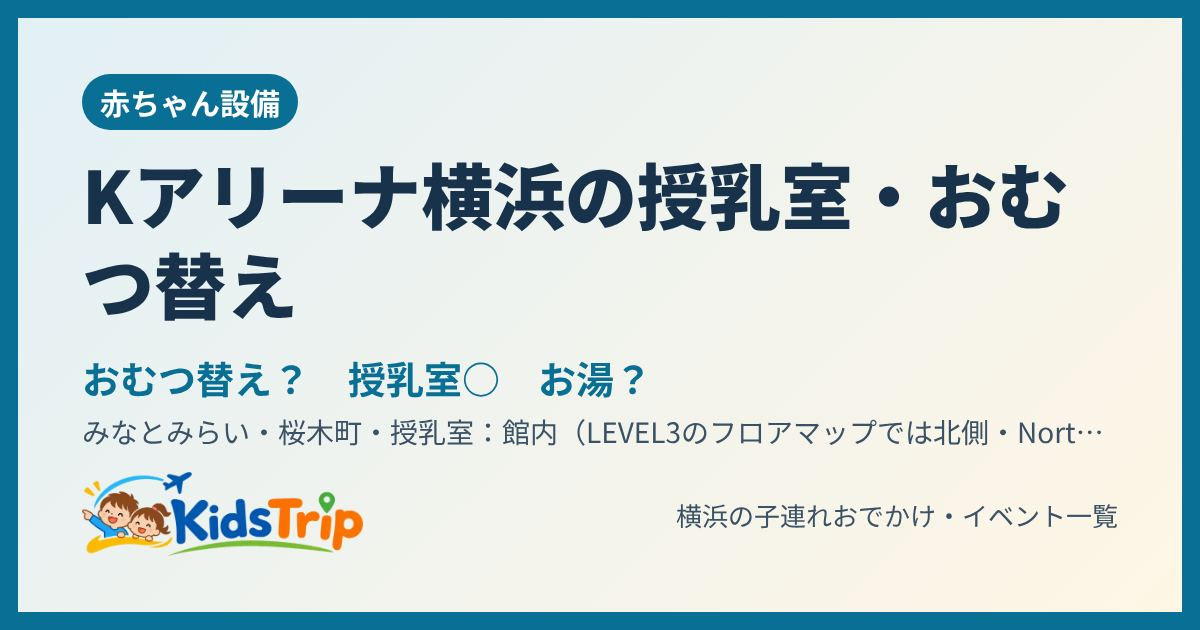
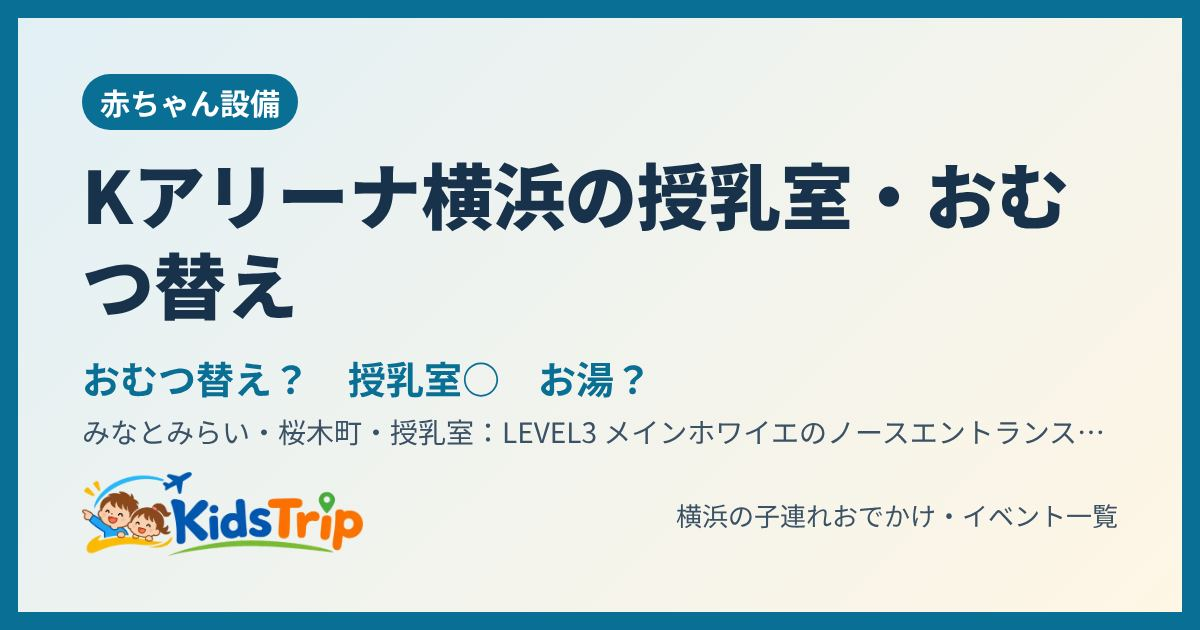
Kアリーナ横浜：授乳室の場所（LEVEL3メインホワイエ・ノースエントランス側）とトイレの階を追加（横浜みなとみらい21の記事）
Claude-Session: https://claude.ai/code/session_014AtJ2g3ghW1boxsW7syVwL

Changed region(s): [[0.4008, 0.6635, 0.8942, 0.7238]]

diff --git a/spot/18kwe75/index.html b/spot/18kwe75/index.html
@@ -3,13 +3,13 @@
 <head>
 <meta charset="utf-8">
 <meta name="viewport" content="width=device-width, initial-scale=1">
-<title>Kアリーナ横浜の授乳室・おむつ替え・お湯｜KidsTrip</title>
-<meta name="description" content="Kアリーナ横浜（みなとみらい・桜木町）の授乳室・おむつ替えの場所：授乳室：館内（LEVEL3のフロアマップでは北側・North Entrance寄りに授乳室のマーク）／車椅子優先トイレ：館内・館外（LEVEL3は301・304の近くなど）。授乳室あり。">
+<title>Kアリーナ横浜の授乳室は何階？おむつ替え・お湯｜KidsTrip</title>
+<meta name="description" content="Kアリーナ横浜（みなとみらい・桜木町）の授乳室・おむつ替えの場所：授乳室：LEVEL3 メインホワイエのノースエントランス側／車椅子用のトイレ：1F・3F（屋内）・5Fに各2か所（ほかに館外にも）。授乳室あり。">
 <link rel="canonical" href="https://kidstrip.jp/spot/18kwe75/">
 <meta property="og:type" content="article">
 <meta property="og:site_name" content="KidsTrip">
-<meta property="og:title" content="Kアリーナ横浜の授乳室・おむつ替え・お湯｜KidsTrip">
-<meta property="og:description" content="Kアリーナ横浜（みなとみらい・桜木町）の授乳室・おむつ替えの場所：授乳室：館内（LEVEL3のフロアマップでは北側・North Entrance寄りに授乳室のマーク）／車椅子優先トイレ：館内・館外（LEVEL3は301・304の近くなど）。授乳室あり。">
+<meta property="og:title" content="Kアリーナ横浜の授乳室は何階？おむつ替え・お湯｜KidsTrip">
+<meta property="og:description" content="Kアリーナ横浜（みなとみらい・桜木町）の授乳室・おむつ替えの場所：授乳室：LEVEL3 メインホワイエのノースエントランス側／車椅子用のトイレ：1F・3F（屋内）・5Fに各2か所（ほかに館外にも）。授乳室あり。">
 <meta property="og:url" content="https://kidstrip.jp/spot/18kwe75/">
 <meta property="og:image" content="https://kidstrip.jp/og/spot-18kwe75.jpg">
 <meta property="og:image:width" content="1200">
@@ -21,7 +21,7 @@
 <link rel="icon" href="../../img/favicon.png">
 <link rel="apple-touch-icon" href="../../img/apple-touch-icon.png">
 <script type="application/ld+json">{"@context": "https://schema.org", "@type": "BreadcrumbList", "itemListElement": [{"@type": "ListItem", "position": 1, "name": "トップ", "item": "https://kidstrip.jp/"}, {"@type": "ListItem", "position": 2, "name": "ごはん・おむつ", "item": "https://kidstrip.jp/#foodall"}, {"@type": "ListItem", "position": 3, "name": "Kアリーナ横浜"}]}</script>
-<script type="application/ld+json">{"@context": "https://schema.org", "@type": "Place", "name": "Kアリーナ横浜", "description": "Kアリーナ横浜（みなとみらい・桜木町）の授乳室・おむつ替えの場所：授乳室：館内（LEVEL3のフロアマップでは北側・North Entrance寄りに授乳室のマーク）／車椅子優先トイレ：館内・館外（LEVEL3は301・304の近くなど）。授乳室あり。", "url": "https://kidstrip.jp/spot/18kwe75/", "image": ["https://kidstrip.jp/og/spot-18kwe75.jpg"], "address": {"@type": "PostalAddress", "addressLocality": "横浜市", "addressRegion": "神奈川県", "addressCountry": "JP"}, "amenityFeature": [{"@type": "LocationFeatureSpecification", "name": "授乳室", "value": true}], "publicAccess": true, "sameAs": "https://k-arena.com/faq/", "hasMap": "https://www.google.com/maps/search/?api=1&query=Kアリーナ横浜"}</script>
+<script type="application/ld+json">{"@context": "https://schema.org", "@type": "Place", "name": "Kアリーナ横浜", "description": "Kアリーナ横浜（みなとみらい・桜木町）の授乳室・おむつ替えの場所：授乳室：LEVEL3 メインホワイエのノースエントランス側／車椅子用のトイレ：1F・3F（屋内）・5Fに各2か所（ほかに館外にも）。授乳室あり。", "url": "https://kidstrip.jp/spot/18kwe75/", "image": ["https://kidstrip.jp/og/spot-18kwe75.jpg"], "address": {"@type": "PostalAddress", "addressLocality": "横浜市", "addressRegion": "神奈川県", "addressCountry": "JP"}, "amenityFeature": [{"@type": "LocationFeatureSpecification", "name": "授乳室", "value": true}], "publicAccess": true, "sameAs": "https://k-arena.com/faq/", "hasMap": "https://www.google.com/maps/search/?api=1&query=Kアリーナ横浜"}</script>
 <style>
 .gkcmp th[scope=row]{white-space:nowrap}.gkcmp td{font-size:.92em}
 .gk{list-style:none;padding:0}.gk li{border:1px solid #e5e5e5;border-radius:10px;padding:10px 12px;margin:8px 0;line-height:1.7}.gk h3{margin:0 0 2px;font-size:1.02em}
@@ -52,10 +52,10 @@ footer{margin:28px 0 8px;font-size:12px;color:var(--muted)}
 <h1>Kアリーナ横浜（公演の来場者向け）の授乳室・おむつ替え・お湯</h1>
 <table class="bm"><thead><tr><th>場所</th><th>おむつ替え</th><th>授乳室</th><th>お湯</th><th>レンジ</th></tr></thead><tbody><tr><th>Kアリーナ横浜</th><td class="u">？</td><td class="y">○</td><td class="u">？</td><td class="u">？</td></tr></tbody></table>
 <p class="legend">○ あり　× なし　？ 調べた範囲で確認できず</p>
-<table class="info"><tr><th>場所</th><td>授乳室：館内（LEVEL3のフロアマップでは北側・North Entrance寄りに授乳室のマーク）／車椅子優先トイレ：館内・館外（LEVEL3は301・304の近くなど）</td></tr><tr><th>エリア</th><td>みなとみらい・桜木町</td></tr></table>
+<table class="info"><tr><th>場所</th><td>授乳室：LEVEL3 メインホワイエのノースエントランス側／車椅子用のトイレ：1F・3F（屋内）・5Fに各2か所（ほかに館外にも）</td></tr><tr><th>エリア</th><td>みなとみらい・桜木町</td></tr></table>
 <ul class="chips"><li>車椅子優先トイレ（館内・館外）</li><li>全フロアに行けるエレベーター（体の不自由な方向け・案内制）</li></ul>
-<p class="sum">コンサート会場なので、使えるのは公演に来た人。公式のよくある質問では、授乳室は館内、車椅子優先トイレは館内・館外にあり、場所はフロアマップで確かめるよう案内している。フロアマップのLEVEL3では、北側（North Entrance寄り）に授乳室のマークがある。公演ごとにトイレの男女の割り当てが変わることがある。おむつ交換台・お湯・電子レンジは公式ページに記載なし。託児施設は公式のよくある質問を確認。</p>
-<p class="small">出典：Kアリーナ横浜 公式（よくある質問・フロアマップ。利用者が送った公式の画面、2026年11月）</p>
+<p class="sum">コンサート会場なので、使えるのは公演に来た人。公式のよくある質問では、授乳室は館内、車椅子優先トイレは館内・館外にあり、場所はフロアマップで確かめるよう案内している。授乳室はLEVEL3のメインホワイエ（メインエントランスを入った広いロビー）のノースエントランス側（フロアマップと、横浜みなとみらい21のインタビュー記事）。トイレは1F・3F（屋内・屋外）・4F・7F、車椅子用のトイレは1F・3F（屋内）・5Fに各2か所。公演ごとにトイレの男女の割り当てが変わることがある。おむつ交換台・お湯・電子レンジは公式ページに記載なし。託児施設は公式のよくある質問を確認。</p>
+<p class="small">出典：Kアリーナ横浜 公式（よくある質問・フロアマップ。利用者が送った公式の画面、2026年11月）・横浜みなとみらい21「Music Port YOKOHAMA」Kアリーナ横浜インタビュー（https://musicport-yokohama.jp/interview/k_arena_yokohama ・2026年11月22日確認）</p>
 <div class="btns"><a class="btn main" data-act="official" href="https://k-arena.com/faq/" target="_blank" rel="noopener">公式ページで確認</a>
 <a class="btn" href="https://www.google.com/maps/search/?api=1&amp;query=Kアリーナ横浜" target="_blank" rel="noopener">地図で見る</a>
 <button type="button" class="btn" data-share="1">🔗 リンクを送る・コピー</button></div>

diff --git a/js/data.js b/js/data.js
@@ -449,8 +449,8 @@ const CLOTHES = [
 ];
 const BABY = {
   "mm": [
-    { n:"Kアリーナ横浜（公演の来場者向け）", where:"授乳室：館内（LEVEL3のフロアマップでは北側・North Entrance寄りに授乳室のマーク）／車椅子優先トイレ：館内・館外（LEVEL3は301・304の近くなど）", d:null, f:true, w:null, ex:["車椅子優先トイレ（館内・館外）","全フロアに行けるエレベーター（体の不自由な方向け・案内制）"],
-      note:"コンサート会場なので、使えるのは公演に来た人。公式のよくある質問では、授乳室は館内、車椅子優先トイレは館内・館外にあり、場所はフロアマップで確かめるよう案内している。フロアマップのLEVEL3では、北側（North Entrance寄り）に授乳室のマークがある。公演ごとにトイレの男女の割り当てが変わることがある。おむつ交換台・お湯・電子レンジは公式ページに記載なし。託児施設は公式のよくある質問を確認。", url:"https://k-arena.com/faq/", src:"Kアリーナ横浜 公式（よくある質問・フロアマップ。利用者が送った公式の画面、2026年11月）" },
+    { n:"Kアリーナ横浜（公演の来場者向け）", where:"授乳室：LEVEL3 メインホワイエのノースエントランス側／車椅子用のトイレ：1F・3F（屋内）・5Fに各2か所（ほかに館外にも）", d:null, f:true, w:null, ex:["車椅子優先トイレ（館内・館外）","全フロアに行けるエレベーター（体の不自由な方向け・案内制）"],
+      note:"コンサート会場なので、使えるのは公演に来た人。公式のよくある質問では、授乳室は館内、車椅子優先トイレは館内・館外にあり、場所はフロアマップで確かめるよう案内している。授乳室はLEVEL3のメインホワイエ（メインエントランスを入った広いロビー）のノースエントランス側（フロアマップと、横浜みなとみらい21のインタビュー記事）。トイレは1F・3F（屋内・屋外）・4F・7F、車椅子用のトイレは1F・3F（屋内）・5Fに各2か所。公演ごとにトイレの男女の割り当てが変わることがある。おむつ交換台・お湯・電子レンジは公式ページに記載なし。託児施設は公式のよくある質問を確認。", url:"https://k-arena.com/faq/", src:"Kアリーナ横浜 公式（よくある質問・フロアマップ。利用者が送った公式の画面、2026年11月）・横浜みなとみらい21「Music Port YOKOHAMA」Kアリーナ横浜インタビュー（https://musicport-yokohama.jp/interview/k_arena_yokohama ・2026年11月22日確認）" },
     { n:"横浜ティンバーワーフ（臨港パーク内）", where:"2F バリアフリートイレ内におむつ替え台（授乳室は公式ページに記載なし）", d:true, f:null, w:null, ex:["バリアフリートイレ（2F）"],
       note:"西区みなとみらい1-1-5、臨港パークの中にある木の建物で、みなとみらい駅・新高島駅から歩いて約14分。1Fはベーカリー・カフェ、2・3Fはレストラン。おむつ替え台は2Fのバリアフリートイレの中。お店を使うときは各店のトイレも使える。授乳室・お湯・電子レンジは公式ページに記載なし。臨港パークで遊んだあとの休憩に。", url:"https://yokohama-timberwharf.com/", src:"横浜ティンバーワーフ 公式（よくあるご質問・アクセス。利用者が送った公式の画面、2026年11月）・横浜市観光情報サイト" },
     { n:"スマイル・ポート（西区の地域子育て支援拠点・KDX横浜みなとみらいタワー3F）", where:"3F スマイル・ポートの中：授乳コーナー（カーテンで仕切れる）／おむつ替えの台・マット／大人用トイレに補助便座／ベビーカー置場は3Fエレベーターホール", d:true, f:true, w:true, ex:["ミルク用のお湯（職員に頼む）","トイレトレーニング用の補助便座","ベビーコーナー・絵本コーナー","ランチ（12:00〜と12:30〜の2回・各7組・当日受付で予約）","0〜6歳と保護者・利用登録が必要（無料・パマトコから）・火〜土 9:30〜15:30","英語を話せるスタッフ（毎週金曜）"],

diff --git a/index.html b/index.html
@@ -754,7 +754,7 @@ section[id], div[id="events"] { scroll-margin-top: 56px; }
   </footer>
 </div>
 
-<script src="js/data.js?v=9ff4d1fabb" defer></script>
+<script src="js/data.js?v=c5bb44f9ff" defer></script>
 <script src="js/app.js?v=1e28e73a7b" defer></script>
 </body>
 </html>

diff --git a/tools/runs.md b/tools/runs.md
@@ -69,3 +69,4 @@
 | 2026-11-22 | 利用者との作業 | 22:23〜22:23 | 1 | 横浜ティンバーワーフ：住所（みなとみらい1-1-5）・駅から約14分を公式のアクセス（利用者の画面）から追加 |
 | 2026-11-22 | 利用者との作業 | 22:25〜22:25 | 3 | 横浜ティンバーワーフの位置を利用者が送ったGoogleマップの画面から入れる（パシフィコノース・国立大ホールとの位置関係から） |
 | 2026-11-22 | 利用者との作業 | 22:28〜22:28 | 3 | Kアリーナ横浜（公演の来場者向け）を赤ちゃん設備に追加（授乳室は館内・LEVEL3北側、車椅子優先トイレ。利用者が送った公式の画面）。位置は未確定 |
+| 2026-11-22 | 利用者との作業 | 22:30〜22:30 | 2 | Kアリーナ横浜：授乳室はLEVEL3メインホワイエのノースエントランス側、車椅子用トイレの階を横浜みなとみらい21のインタビュー記事（利用者が送ったURL）で確認して追加 |
